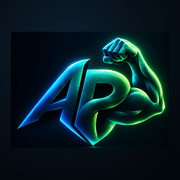
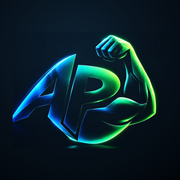
Animate the APULSO mark on launch and put it inside the app
Rebuilds the brand assets from the new artwork. The alpha channel is
derived from the artwork's own luminance, so the mark carries its neon
glow onto any background instead of arriving in a black box, and the
in-app copies ship as WebP (94 KB rather than 650 KB as PNG).

The launch screen no longer waits five seconds on a still image. The
mark wipes in from the left, so the monogram lands first and the arm
unrolls out of it; then it flexes — a two-beat bump pivoted on the elbow
— and the glow blows out with the effort, as if tensing. The wordmark
and tagline follow. It runs about two seconds and enters on its own, and
a tap skips it.

The countdown starts only once the image has decoded, so a slow phone
sees the animation from its first frame rather than half of it, with a
1.2s fallback if the image never arrives.

The home-screen icon is remade at 86% of the tile — compared at three
sizes against the rounded mask — so the mark reads at 60px without its
glow being clipped at the corners. The mark also now sits in the top bar
next to the view title, and replaces the placeholder badge beside APULSO
in the sidebar.

Two effects were tried and dropped for leaving visible rectangles: a
masked light sweep (which CORS also blocks on file://) and a dodge-blend
band. The brightness pulse achieves it without touching the background.

Claude-Session: https://claude.ai/code/session_01Pv1yGdjNh59DvBCuGLV2ro

Changed region(s): [[0.0556, 0.1944, 0.9444, 0.8333], [0.0556, 0.25, 0.1111, 0.4722], [0.0556, 0.1667, 0.0833, 0.2222]]

diff --git a/index.html b/index.html
@@ -172,7 +172,14 @@ a{color:inherit;}
   z-index:40;
   transition:transform .28s ease;
 }
-.brand{display:flex;align-items:center;gap:10px;padding:6px 10px 22px;}
+.brand{display:flex;align-items:center;gap:11px;padding:6px 10px 22px;}
+.brand-logo{width:36px;height:auto;flex:none;filter:drop-shadow(0 0 14px var(--cyan-dim));}
+.topbar-logo{
+  width:34px;height:auto;flex:none;display:none;
+  filter:drop-shadow(0 0 10px var(--cyan-dim));
+}
+@media (max-width:900px){ .topbar-logo{display:block;} }
+@media (max-width:359px){ .topbar-logo{display:none;} }
 .brand-mark{
   width:40px;height:40px;border-radius:12px;
   background:radial-gradient(120% 130% at 28% 20%, #8ff5ff 0%, var(--cyan) 40%, var(--blue) 100%);
@@ -182,7 +189,7 @@ a{color:inherit;}
 }
 .brand-mark svg{width:20px;height:20px;}
 .brand-name{font-family:'Space Grotesk',sans-serif;font-weight:800;font-size:17px;letter-spacing:.06em;color:var(--text);}
-.brand-sub{font-size:10.5px;color:var(--text-faint);letter-spacing:.16em;text-transform:uppercase;margin-top:1px;}
+.brand-sub{font-size:10px;color:var(--text-faint);letter-spacing:.1em;text-transform:uppercase;margin-top:1px;white-space:nowrap;}
 
 .nav-item{
   display:flex;align-items:center;gap:12px;padding:11px 12px;border-radius:var(--radius-sm);
@@ -531,30 +538,65 @@ a{color:inherit;}
 .weigh-hint{font-size:12.5px;line-height:1.5;color:var(--text-faint);margin-top:12px;}
 .field-hint{font-size:12px;line-height:1.5;color:var(--text-faint);margin-top:6px;}
 /* ---------------- pantalla de bienvenida ---------------- */
+/* La marca entra de izquierda a derecha: primero el monograma, y el brazo se
+   despliega detrás; después tensa, como quien aprieta el bíceps. */
 #splash{
   position:fixed;inset:0;z-index:400;display:flex;flex-direction:column;
-  align-items:center;justify-content:center;gap:26px;
-  background:radial-gradient(120% 90% at 50% 35%, #0d2030 0%, #071019 55%, #03070c 100%);
-  transition:opacity .55s ease, visibility .55s ease;
+  align-items:center;justify-content:center;
+  background:radial-gradient(125% 95% at 46% 38%, #0e2436 0%, #071019 52%, #02060b 100%);
+  transition:opacity .45s ease, visibility .45s ease;
+  overflow:hidden;
 }
 #splash.gone{opacity:0;visibility:hidden;pointer-events:none;}
-#splash img{
-  width:min(62vw,270px);height:auto;display:block;
-  filter:drop-shadow(0 0 40px rgba(34,232,255,.28));
-  animation:splashIn 1s cubic-bezier(.2,.8,.25,1) both;
+.splash-stage{position:relative;display:flex;flex-direction:column;align-items:center;}
+.splash-mark{
+  position:relative;width:min(72vw,330px);
+  transform-origin: 24% 64%;   /* el codo imaginario: el brazo es lo que se mueve */
+  will-change: transform, opacity, filter;
+  opacity:0;
+  filter:drop-shadow(0 0 40px rgba(34,232,255,.3));
 }
-@keyframes splashIn{from{opacity:0;transform:scale(.88) translateY(14px);}to{opacity:1;transform:none;}}
-.splash-ring{width:34px;height:34px;transform:rotate(-90deg);}
-.splash-ring circle{fill:none;stroke-width:3;stroke-linecap:round;}
-.splash-ring .bg{stroke:rgba(255,255,255,.12);}
-.splash-ring .fg{stroke:var(--cyan);stroke-dasharray:97.4;stroke-dashoffset:97.4;animation:splashRing 5s linear forwards;}
-@keyframes splashRing{to{stroke-dashoffset:0;}}
+#splash.ready .splash-mark{
+  animation: markRise .62s cubic-bezier(.16,.9,.3,1) both,
+             markFlex .54s cubic-bezier(.34,1.5,.44,1) .76s both,
+             markGlow .58s ease-out .76s both;
+}
+.splash-mark img{ width:100%;height:auto;display:block;clip-path: inset(0 100% 0 0); }
+#splash.ready .splash-mark img{ animation: markWipe .76s cubic-bezier(.22,.72,.2,1) .08s both; }
+/* El logo es una imagen recortada: un filtro sólo toca sus píxeles, así que el
+   brillo del esfuerzo se enciende en el metal sin manchar el fondo. */
+.splash-word{ width:min(56vw,245px);margin-top:14px;opacity:0; }
+#splash.ready .splash-word{ animation: wordUp .5s cubic-bezier(.2,.8,.25,1) 1.06s both; }
+.splash-word img{width:100%;height:auto;display:block;filter:drop-shadow(0 0 18px rgba(43,255,168,.22));}
+.splash-tag{
+  margin-top:14px;font-size:11px;font-weight:700;letter-spacing:.34em;text-transform:uppercase;
+  color:var(--text-faint);opacity:0;
+}
+#splash.ready .splash-tag{ animation: wordUp .5s ease 1.3s both; }
+@keyframes markRise{ from{opacity:0;transform:translateY(16px) scale(.94);} to{opacity:1;transform:none;} }
+@keyframes markWipe{ from{clip-path:inset(0 100% 0 0);} to{clip-path:inset(-10% -10% -10% -10%);} }
+/* dos tiempos: tensa y suelta */
+@keyframes markFlex{
+  0%{transform:scale(1);}
+  38%{transform:scale(1.085) translateX(1.5%);}
+  62%{transform:scale(1.025) translateX(.4%);}
+  100%{transform:scale(1);}
+}
+@keyframes markGlow{
+  0%{ filter:drop-shadow(0 0 40px rgba(34,232,255,.3)) brightness(1); }
+  38%{ filter:drop-shadow(0 0 60px rgba(43,255,168,.62)) brightness(1.3) saturate(1.18); }
+  100%{ filter:drop-shadow(0 0 40px rgba(34,232,255,.3)) brightness(1); }
+}
+@keyframes wordUp{ from{opacity:0;transform:translateY(10px);} to{opacity:1;transform:none;} }
 .splash-skip{
-  position:absolute;bottom:calc(env(safe-area-inset-bottom) + 30px);
-  background:none;border:none;color:var(--text-faint);font:600 12.5px Inter,sans-serif;
-  letter-spacing:.06em;cursor:pointer;padding:12px 20px;
+  position:absolute;bottom:calc(env(safe-area-inset-bottom) + 26px);
+  background:none;border:none;color:var(--text-faint);font:600 12px Inter,sans-serif;
+  letter-spacing:.08em;cursor:pointer;padding:12px 20px;opacity:0;
 }
-@media (prefers-reduced-motion:reduce){#splash img{animation:none;}}
+#splash.ready .splash-skip{ animation: wordUp .4s ease 1.55s both; }
+@media (prefers-reduced-motion:reduce){
+  .splash-mark,.splash-mark img,.splash-word,.splash-tag,.splash-skip{animation-duration:.01ms !important;animation-delay:0ms !important;}
+}
 
 /* ---------------- onboarding ---------------- */
 #onboard{
@@ -1044,12 +1086,14 @@ a{color:inherit;}
 <body>
 
 <div id="splash">
-  <img src="logo.png" alt="APULSO" width="600" height="600">
-  <svg class="splash-ring" viewBox="0 0 36 36" aria-hidden="true">
-    <circle class="bg" cx="18" cy="18" r="15.5"/>
-    <circle class="fg" cx="18" cy="18" r="15.5"/>
-  </svg>
-  <button class="splash-skip" data-action="skip-splash">Tocar para entrar</button>
+  <div class="splash-stage">
+    <div class="splash-mark">
+      <img src="mark.webp" alt="APULSO" width="560" height="420">
+    </div>
+    <div class="splash-word"><img src="word.webp" alt="" width="480" height="44"></div>
+    <div class="splash-tag">Tu fuerza, medida</div>
+  </div>
+  <button class="splash-skip" data-action="skip-splash">Entrar</button>
 </div>
 
 <div id="onboard" role="dialog" aria-modal="true" aria-label="Configuración inicial">
@@ -1071,9 +1115,7 @@ a{color:inherit;}
   <div class="overlay-scrim" id="scrim"></div>
   <aside class="sidebar" id="sidebar">
     <div class="brand">
-      <div class="brand-mark icon-badge">
-        <svg viewBox="0 0 24 24" fill="none" stroke="#04141a" stroke-width="2.4" stroke-linecap="round" stroke-linejoin="round"><path d="M3 13h4l2-7 4 14 2-7h6"/></svg>
-      </div>
+      <img class="brand-logo" src="mark.webp" alt="" width="560" height="420">
       <div>
         <div class="brand-name">APULSO</div>
         <div class="brand-sub">Tu fuerza, medida</div>
@@ -1118,6 +1160,7 @@ a{color:inherit;}
       <button class="hamburger" id="btnHamburger" aria-label="Abrir menú">
         <svg viewBox="0 0 24 24" fill="none" stroke="currentColor" stroke-width="2" stroke-linecap="round"><path d="M4 6h16M4 12h16M4 18h16"/></svg>
       </button>
+      <img class="topbar-logo" src="mark.webp" alt="APULSO" width="560" height="420">
       <div class="topbar-title">
         <div class="page-title" id="pageTitle">Dashboard</div>
         <div class="page-sub" id="pageSub">Resumen de tu rendimiento</div>
@@ -3890,10 +3933,23 @@ let splashTimer = null;
 let obStep = 0;
 let obDraft = null;
 
+const SPLASH_MS = 2050;   /* lo que dura la animación completa */
+
+/* La cuenta no empieza hasta que la marca está decodificada: si arrancara con
+   la página, en un móvil lento la animación se vería a medias o nada. */
 function startSplash(){
   const el = document.getElementById("splash");
   if(!el) return;
-  splashTimer = setTimeout(endSplash, 5000);
+  const img = el.querySelector(".splash-mark img");
+  const go = () => {
+    if(el.classList.contains("ready")) return;
+    el.classList.add("ready");
+    splashTimer = setTimeout(endSplash, SPLASH_MS);
+  };
+  if(img && img.decode) img.decode().then(go).catch(go);
+  else if(img && !img.complete) img.addEventListener("load", go, {once:true});
+  else go();
+  setTimeout(go, 1200);   /* red lenta o imagen que no carga: no dejar la app trabada */
 }
 
 function endSplash(){
@@ -3931,7 +3987,7 @@ function renderOnboarding(){
 
   if(obStep === 0){
     body.innerHTML = `
-      <img class="ob-logo" src="logo.png" alt="">
+      <img class="ob-logo" src="mark.webp" alt="">
       <div class="ob-eyebrow">Bienvenido</div>
       <h2 class="ob-title">¿Cómo te llamamos?</h2>
       <p class="ob-sub">Cuatro preguntas rápidas y la app queda a tu medida. Puedes cambiarlo todo después.</p>
